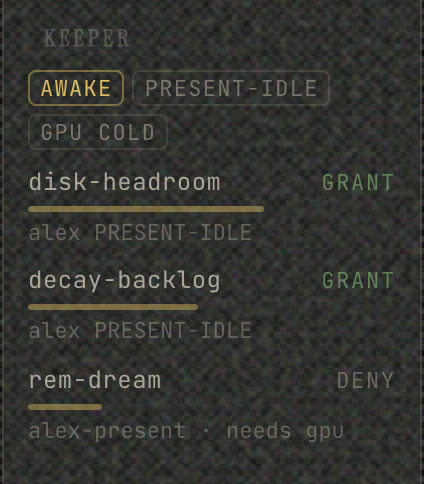
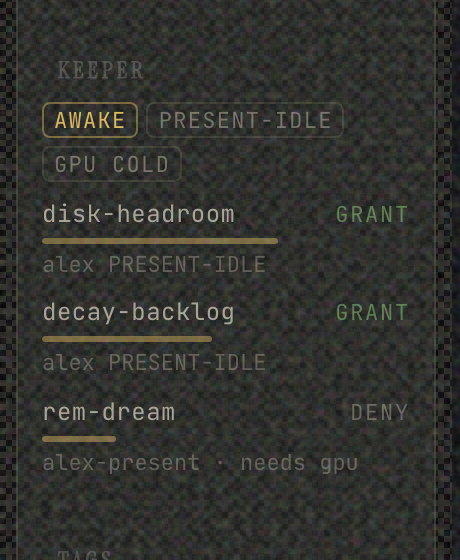
qualify sovereignty claims to match what the code enforces; recapture cockpit screenshots

diff --git a/src/content/projects/creature.md b/src/content/projects/creature.md
@@ -1,6 +1,6 @@
 ---
 title: "CREATURE"
-tagline: "A mind that runs on one machine - mine. It remembers, dreams, feels what it needs, and carries my judgment when it acts. Nothing private ever leaves the box."
+tagline: "A mind that runs on one machine - mine. It remembers, dreams, feels what it needs, and carries my judgment when it acts. Local by construction; the cloud is opt-in and never handed a memory."
 status: "active"
 stack: ["TypeScript", "Python", "SQLite", "FTS5", "Ollama", "Model Context Protocol", "WebGL2", "local-first"]
 screenshots: ["/creature/judgment-matrix.png", "/creature/keeper.png"]
@@ -9,7 +9,7 @@ order: 1
 
 CREATURE is a mind that runs on one machine - mine. It remembers, it consolidates while I sleep, it notices when it is short on something it needs, and it will refuse work that crosses a line I set. None of that leaves the box.
 
-The name is just the honest description. Not an assistant with a memory feature bolted on the side - an organism, with a spine that decides what is safe, organs that do the work, and a keeper that feels when something is wrong. ForgeFrame is the engine underneath it. Everything here runs local-first: my private thinking lives in a file on my own disk, and the cloud only ever sees work that was already public.
+The name is just the honest description. Not an assistant with a memory feature bolted on the side - an organism, with a spine that decides what is safe, organs that do the work, and a keeper that feels when something is wrong. ForgeFrame is the engine underneath it. Everything here runs local-first: my private thinking lives in a file on my own disk, and reaching the cloud is a deliberate, narrow act rather than the default.
 
 <img src="/creature/architecture.svg" alt="CREATURE architecture: a request hits a spine router that measures embedding distance against private memory centroids, classifies green (public, cloud-eligible) or red (private, local-only), escalates to a local judge when uncertain, and fails closed. A judgment kernel weighted to sovereignty gates the router and rides in every dispatched agent, over memory, the keeper, and organs." style="width:100%;border:1px solid var(--white-08);margin:1.25rem 0;" />
 
@@ -18,6 +18,8 @@ The seam is the whole design. The cloud is a tool the local mind reaches for whe
 ## How it works
 
 **The spine.** Every request gets read before anything acts on it. Green means public - fine to hand to a frontier model in the cloud. Red means private - it stays home. I did not want a blocklist of forbidden words, because words leak and lists rot. So the spine measures distance instead: how close does this request sit to the shape of my own private memory? Close means red. When it is genuinely on the fence, it asks a small local model rather than guess. Most of the time it is a cheap measurement; only the ambiguous cases warm the hardware. And it fails the safe way - any error, any timeout, any doubt lands on local. Safe is the resting state, not the exception.
+
+**What "local" actually means.** This is the part I want to be exact about, because it is easy to say and hard to earn. The model that does my private thinking refuses to run against anything but a loopback address - the code raises an error rather than send. The spine fails closed: tag something sensitive and it can only be pulled toward local, never pushed out. When the system does reach a frontier model in the cloud, it goes through one narrow tool that can carry nothing but a short task the local model wrote by hand - no memory, no scratchpad, no history; the function cannot hold them. So the strong, true version is: local cognition is enforced in the code, and the cloud is opt-in and starved of context by design. The version I will not claim is that sensitive content physically cannot leak. Memory objects cannot - the tool has no field to put them in - but the task string is composed by a local model and checked by a rule, and making that judgment airtight is exactly the open problem below.
 
 **The judgment.** My principles are not a document the system quotes back at you. They are compiled - weighted into a kernel, sovereignty carrying the most weight - and when the system sends a sub-agent off to do something, that kernel rides along, so the agent moves the way I would move. It also sits on the spine as a ratchet: it can pull a decision toward local and safe, never the other way. Nothing downstream gets to loosen what it tightened.
 
@@ -31,10 +33,11 @@ The seam is the whole design. The cloud is a tool the local mind reaches for whe
 
 I would rather name these than pretend they are behind me.
 
+- **Making the boundary airtight.** Local cognition is enforced in code; the weak seam is the classifier that decides what counts as private in the first place. Moving it from matching keywords to measuring distance against my own memory helped a lot. Proving it never mislabels - and that the cloud tool never gets handed a sensitive task dressed up as a public one - is not done. Get that wrong in the permissive direction once and you cannot un-leak.
 - **Teaching it to think more like me, without leaking me.** The way to make the local model sound like my own mind is to train it on my own memory - which is exactly the data that cannot leave the machine. Fully-local fine-tuning is the only honest road, and it is slow on a laptop. Open.
 - **The narrow mouth.** The system can remember and feel and decide faster than I can tell it what to do or read back what it found. The thinking outran the interface. About a third of the real work left is a clean grammar for talking to it.
 - **Whether it keeps growing.** Left to consolidate and forget on its own, does the memory get richer, or collapse into a small handful of ruts? I do not know yet. That is the honest research question, and I am not going to wave it away.
 
 ## Where it's going
 
-I am opening it up - the engine first, then the sovereignty layer and the organ contract, so the architecture is something you can read and run even while my memories stay mine. The interesting part was never that I built an assistant. It is that the hard thing - keeping a mind's private thinking provably on its own machine while still letting it reach into the world and act - is running on my desk right now.
+I am opening it up - the engine first, then the sovereignty layer and the organ contract, so the architecture is something you can read and run even while my memories stay mine. The interesting part was never that I built an assistant. It is that the hard thing - keeping a mind's private thinking local by construction while still letting it reach into the world and act - is running on my desk right now.